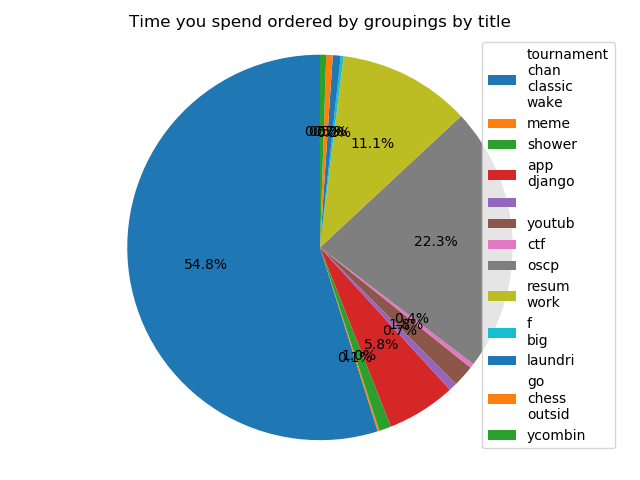
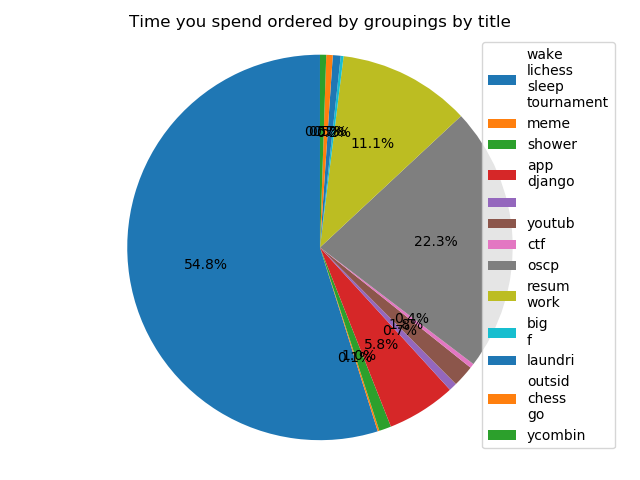
Hack together first piegraph

diff --git a/posts/templates/posts/analytics.html b/posts/templates/posts/analytics.html
@@ -4,22 +4,40 @@
     {% if events.count < 10 %}
       <p class="lead">Please come back when you have 10 events. No rush.</p>
     {% elif events %}
-      <p class="lead">Some friendly stats about you.</p>
-      <script
-			  src="https://code.jquery.com/jquery-3.4.1.min.js"
-			  integrity="sha256-CSXorXvZcTkaix6Yvo6HppcZGetbYMGWSFlBw8HfCJo="
-        crossorigin="anonymous"></script>
+      <script src="https://code.jquery.com/jquery-3.4.1.min.js" integrity="sha256-CSXorXvZcTkaix6Yvo6HppcZGetbYMGWSFlBw8HfCJo=" crossorigin="anonymous"></script>
       <script src="https://cdn.jsdelivr.net/npm/chart.js@2.8.0"></script>
-      <canvas id="test_chart" width="500" height="500"></canvas>
+      <canvas id="group_pie" width="400" height="400"></canvas>
       <script type="text/javascript">
-        $.get("{% url 'posts:analyticstestchartjson' %}", function (data) {
-          var ctx = $("#test_chart").get(0).getContext("2d");
+        var randomColorGenerator = function() { 
+            return '#' + (Math.random().toString(16) + '0000000').slice(2, 8); 
+        };
+        function arrayRandomColors(len) {
+          var arr = [];
+          for (var i = 0; i < len; i++) {
+            arr.push(randomColorGenerator());
+          }
+          return arr;
+        }
+        $.get("{% url 'posts:analyticsgroupingpiejson' %}", function(data) {
+          var ctx = $("#group_pie").get(0).getContext("2d");
+          // console.log(arrayRandomColors(data['data']['datasets'][0]['data'].length));
+          // console.log(data['data']['labels']);
           new Chart(ctx, {
-              type: 'line',
-              data: data,
-              options: {
-                  responsive: false
-              }
+            type: 'pie',
+            data: {
+              datasets: [{
+                data: data['data']['datasets'][0]['data'],
+                backgroundColor: arrayRandomColors(data['data']['datasets'][0]['data'].length)
+              }],
+              labels: data['data']['labels']
+            },
+            options: {
+              title: {
+                display: true,
+                text: "Grouping events by connecting titles"
+              },
+              responsive: false
+            }
           });
         });
       </script>

diff --git a/posts/templates/posts/base.html b/posts/templates/posts/base.html
@@ -32,7 +32,6 @@
       </div>
     </main>
     <script src="https://cdn.jsdelivr.net/npm/chart.js@2.8.0"></script>
-    <script src="https://code.jquery.com/jquery-3.3.1.slim.min.js" integrity="sha384-q8i/X+965DzO0rT7abK41JStQIAqVgRVzpbzo5smXKp4YfRvH+8abtTE1Pi6jizo" crossorigin="anonymous"></script>
     <script src="https://cdnjs.cloudflare.com/ajax/libs/popper.js/1.14.7/umd/popper.min.js" integrity="sha384-UO2eT0CpHqdSJQ6hJty5KVphtPhzWj9WO1clHTMGa3JDZwrnQq4sF86dIHNDz0W1" crossorigin="anonymous"></script>
     <script src="https://stackpath.bootstrapcdn.com/bootstrap/4.3.1/js/bootstrap.min.js" integrity="sha384-JjSmVgyd0p3pXB1rRibZUAYoIIy6OrQ6VrjIEaFf/nJGzIxFDsf4x0xIM+B07jRM" crossorigin="anonymous"></script>
   </body>

diff --git a/posts/views.py b/posts/views.py
@@ -153,15 +153,7 @@ class EventAnalysis:
 
     def past_day_pie(self):
         past_day = self.data[self.data.day_id == self.last_day_id]
-        patches, texts, _ = plt.pie(
-            past_day["time_spent"], autopct="%1.1f%%", startangle=90
-        )
-        plt.legend(patches, past_day["title"], loc="best")
-        plt.title("Your day so far")
-        plt.axis("equal")
-        plt.tight_layout()
-        plt.savefig("posts/static/posts/images/past_day.png")
-        plt.close()
+        return past_day["time_spent"], past_day["title"]
 
     def grouping_pie(self):
         group_hours, group_words = [], []
@@ -179,21 +171,10 @@ class EventAnalysis:
                     ]
                 )
             )
-        patches, texts, _ = plt.pie(group_hours, autopct="%1.1f%%", startangle=90)
-        plt.legend(patches, group_words, loc="best")
-        plt.title("Time you spend ordered by groupings by title")
-        plt.axis("equal")
-        plt.tight_layout()
-        plt.savefig("posts/static/posts/images/groups.png")
-        plt.close()
+        return (group_hours, group_words)
 
     def time_plot(self):
-        self.time_df.plot()
-        plt.xlabel("Date")
-        plt.ylabel("Hours")
-        plt.title("Average time between posts")
-        plt.savefig("posts/static/posts/images/avg_hrs.png")
-        plt.close()
+        return self.time_df
 
     def generate_visuals(self):
         self.past_day_pie()
@@ -201,9 +182,10 @@ class EventAnalysis:
         self.time_plot()
 
 
+e = EventAnalysis()
+
 def analytics(request):
     if len(Event.objects.all()) > 0:
-        e = EventAnalysis()
         print(e.data)
     return render(
         request, "posts/analytics.html", context={"events": Event.objects.all()}
@@ -219,7 +201,6 @@ class DeleteView(generic.DeleteView):
 from chartjs.views.lines import BaseLineChartView
 
 class LineChartJSONView(BaseLineChartView):
-    template_name='posts/analytics.html'
     def get_labels(self):
         """Return 7 labels for the x-axis."""
         return ["January", "February", "March", "April", "May", "June", "July"]
@@ -234,3 +215,24 @@ class LineChartJSONView(BaseLineChartView):
         return [[75, 44, 92, 11, 44, 95, 35],
                 [41, 92, 18, 3, 73, 87, 92],
                 [87, 21, 94, 3, 90, 13, 65]]
+
+class GroupingPieChartJSONView(BaseLineChartView): # Come on, django-chartjs. Only line chart is supported?
+    stats, labels = e.grouping_pie()
+    
+    def get_labels(self):
+        return self.labels
+    
+    def get_providers(self):
+        return ["first_set"]
+    
+    def get_data(self):
+        return [self.stats]
+    
+    def get_context_data(self):
+        context = {
+            'data': {
+                'labels': self.get_labels(),
+                'datasets': self.get_datasets()
+            }
+        }
+        return context

diff --git a/posts/urls.py b/posts/urls.py
@@ -11,4 +11,5 @@ urlpatterns = [
     path("delete/<int:pk>/", views.DeleteView.as_view(), name="delete"),
     # path("analytics/", views.LineChartJSONView.as_view(), name="analytics"),
     path("analytics/testchart/json", views.LineChartJSONView.as_view(), name="analyticstestchartjson"),
+    path("analytics/groupingpie/json", views.GroupingPieChartJSONView.as_view(), name="analyticsgroupingpiejson"),
 ]
